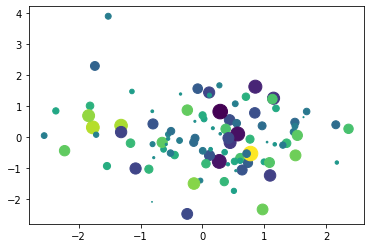
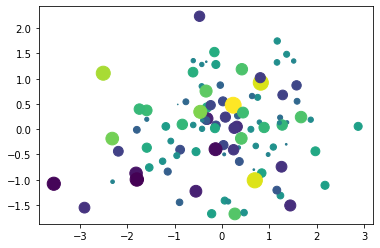
Update documentation

diff --git a/searchindex.js b/searchindex.js
@@ -1,1 +1,1 @@
-Search.setIndex({docnames:["Sample","content/background/machine_learning/machine_learning","content/background/machine_learning/scikit-learn","content/background/machine_learning/validation","content/background/mlops/code_versioning","content/background/mlops/mlops","content/background/mlops/model_tracking","content/background/scientific_python/matplotlib","content/background/scientific_python/numpy","content/background/scientific_python/pandas","content/background/scientific_python/python","content/background/scientific_python/sample","content/background/scientific_python/scientific_python","content/background/scientific_python/seaborn","content/condition/agmet","content/condition/eo_data_plot_components","content/condition/evaporative_stress_index","content/condition/examples","content/condition/ndvi","content/condition/precipitation","content/condition/soil_moisture","content/condition/temperature","content/installation","content/intro/introduction","content/yield/basic","content/yield/geocif","content/yield/introduction","geocif","geoprepare","intro","machine_learning_intro","markdown-notebooks","notebooks","overview"],envversion:{"sphinx.domains.c":2,"sphinx.domains.changeset":1,"sphinx.domains.citation":1,"sphinx.domains.cpp":4,"sphinx.domains.index":1,"sphinx.domains.javascript":2,"sphinx.domains.math":2,"sphinx.domains.python":3,"sphinx.domains.rst":2,"sphinx.domains.std":2,"sphinx.ext.intersphinx":1,"sphinxcontrib.bibtex":9,sphinx:56},filenames:["Sample.ipynb","content\\background\\machine_learning\\machine_learning.md","content\\background\\machine_learning\\scikit-learn.md","content\\background\\machine_learning\\validation.md","content\\background\\mlops\\code_versioning.md","content\\background\\mlops\\mlops.md","content\\background\\mlops\\model_tracking.md","content\\background\\scientific_python\\matplotlib.md","content\\background\\scientific_python\\numpy.md","content\\background\\scientific_python\\pandas.md","content\\background\\scientific_python\\python.md","content\\background\\scientific_python\\sample.md","content\\background\\scientific_python\\scientific_python.md","content\\background\\scientific_python\\seaborn.md","content\\condition\\agmet.md","content\\condition\\eo_data_plot_components.md","content\\condition\\evaporative_stress_index.md","content\\condition\\examples.md","content\\condition\\ndvi.md","content\\condition\\precipitation.md","content\\condition\\soil_moisture.md","content\\condition\\temperature.md","content\\installation.md","content\\intro\\introduction.md","content\\yield\\basic.md","content\\yield\\geocif.md","content\\yield\\introduction.md","geocif.md","geoprepare.md","intro.md","machine_learning_intro.md","markdown-notebooks.md","notebooks.ipynb","overview.md"],objects:{},objnames:{},objtypes:{},terms:{"0":[0,10,11,28,32],"00075659":0,"04937333":0,"05":22,"07700153":11,"0x1dbc66d5880":0,"0x251a00126a0":32,"0x26ac02a5880":11,"1":[0,10,11,32],"10":[0,10,11,14,18,20,21,32],"100":[0,10,11,32],"15":19,"19680801":32,"1982":28,"19953826":0,"2":[0,10,11,22,31],"2021":23,"2022":[22,28],"25":20,"26356542":0,"27109706":11,"27305358":11,"3":[0,10,11,22],"32138313":11,"35520955":0,"35712857":11,"4":[31,32],"43792341":11,"46961512":0,"47160749":11,"5":[14,18,19,20,21,28,32],"55478298":11,"61102559":11,"6117478":0,"62645711":0,"62787986":11,"63832084":0,"7":22,"8":22,"84634777":0,"default":[28,31],"do":32,"final":14,"function":23,"import":[0,10,11,28,32],"true":28,"while":21,A:28,As:[18,19,32],But:32,By:14,For:[14,18,19,20,21,22,23,32],If:[22,31],In:19,It:22,On:22,That:31,The:[14,18,19,20,21,22,31],There:[18,19,21,32],With:31,_ioncontext:32,ab:[0,10,11],abl:20,abort:21,about:[31,32],abov:19,accur:23,across:[14,19],action:23,activ:22,actor:23,ad:22,adapt:23,add_:32,addit:19,affect:21,again:18,agre:22,agricultur:23,al:23,align:32,all:[23,31],almost:23,along:18,alreadi:22,also:[21,31,32],altern:19,amount:[19,20],an:[19,22,23],anaconda3:22,anaconda:22,analysi:23,analyst:14,ani:[20,31],anticipatori:23,api:22,app:22,ar:[14,18,19,21,22,23,31],archiv:22,area:[14,19],arrai:[0,11,32],arrow:22,articl:14,ask:22,attach:22,avail:[20,23],averag:[14,18,19],ax:32,base:[14,22,31],bash:22,befor:[18,20],begin:[14,18,32],below:[14,19,22],best:23,better:14,between:19,black:[14,22],block:31,blue:14,book:[31,32],both:[19,21,22],box:22,br:22,bring:14,brown:14,buffer:23,built:31,button:22,c:[0,10,11,22],can:[14,18,19,20,21,22,23,31,32],cartopi:22,catalogu:22,catboost:22,caus:[19,20],cd:22,cdsapi:22,cdsapirc:22,celsiu:21,centimet:20,chart:19,check:32,chill:21,chirp:28,choic:22,client:22,climat:[14,22,23],clone:22,cluster:22,cm:32,cmap:32,code:[22,31],cold:32,collect:[0,11],color:[19,32],com:[22,28],combin:14,command:[22,31],compani:23,compar:[19,20,21],comparison:18,conda:22,condit:14,consist:14,content:31,context:14,contrib:22,convert:31,coolwarm:32,copi:22,correspond:14,cours:[18,19],creat:32,credenti:22,critic:23,crop:[18,19,20,21],cumul:19,current:[14,18,19,20,21],custom_lin:32,cycl:14,cycler:32,d:31,daac:22,dai:19,daili:[19,21],data:[0,10,11,18,19,20,21,22,32],dataset:[22,28],death:21,decis:23,decreas:18,deficit:19,defin:31,degre:21,demonstr:14,dep:28,depend:20,depth:[14,20],descript:14,design:23,detail:[14,22,31],develop:[14,18,19,20],die:18,differ:[14,19,22],dir_bas:28,direct:31,directori:22,discuss:14,displai:[22,31],document:[31,32],dollar:32,don:22,dot:[14,19],dramat:19,dure:[18,19,20],each:[14,22],earli:[18,19,20],earlier:22,earthdata:22,effect:[19,23],either:19,emb:32,emerg:19,end:[14,32],end_year:28,enough:19,ensur:23,enter:22,environment:14,eo:[18,19,20,21],escap:32,especi:23,estim:23,et:23,etc:32,eu:22,evapotranspir:21,even:19,event:19,everi:22,examin:14,exampl:[19,32],execut:31,expect:22,explain:23,extract:28,face:23,farm:19,farmer:23,fig:32,figsiz:32,file:[22,31],find:22,first:[18,19,21,22],five:[18,20],fix:32,flood:19,folder:22,follow:[22,31],food:23,forc:28,forecast:[19,23],forestci:22,forg:22,form:22,found:14,four:14,fraction_cpu:28,from:[18,19,20,21,22,23,32],frost:21,fulli:18,further:14,gdal:22,gener:22,geocif:28,geocod:22,geoglam:14,geopanda:22,geopi:22,geoprepar:28,germin:20,get:31,git:[22,28],github:[22,28],go:22,goe:19,gprp:28,grai:14,green:[14,19],greenup:14,grow:20,growth:[14,18,20,21],guid:32,harvest:[14,23],have:[19,22,31],held:20,help:[14,18,19,20],here:[22,32],high:21,higher:20,home:22,hot:32,how:[14,18,31],howev:20,html:32,http:[22,28],identifi:19,ii:32,iif:22,imag:32,impact:14,impend:23,includ:[23,31,32],increas:[18,21],indic:19,individu:18,inform:[14,18,19,20,21,23,31,32],init:31,injuri:21,input:28,insight:14,instruct:[22,31],insur:23,intend:22,interact:32,interpret:14,ion:32,jupyt:[31,32],jupyterlab:22,jupytext:31,keep:32,kei:[22,23],kernel:31,kramer:23,la_:32,laad:22,late:14,latest:22,leafi:18,learn:22,least:23,legend:32,let:31,librari:22,light:14,lightn:22,like:31,line2d:32,line:[14,22,31,32],linspac:32,linux:22,list:22,load:22,local:22,locat:22,log:[22,28],logfil:28,login:22,logspac:32,logzero:22,loss:[21,23],lot:32,low:21,lower:20,lw:32,machin:22,mai:14,main:14,major:19,make:32,maker:23,manag:22,mani:31,markdownfil:31,market:23,marketplac:23,math:32,matplotlib:[0,10,11,22,32],matur:18,maximum:[14,18,20,21],mbox:32,md:31,mean:[14,18,19,20,21,32],measur:[19,20,21],medium:32,menu:22,merf:22,mid:20,millimet:[19,20],minimum:[14,18,20,21],mitig:23,mm:20,model:28,modul:22,monitor:[14,18,19,20,21],more:[14,18,19,20,21,31,32],most:14,much:19,n:[22,32],name:22,nasa:14,nation:14,natur:23,necessari:22,need:31,netcdf4:22,next:22,non:22,np:[0,10,11,32],number:21,numpi:[0,10,11,32],octvi:22,octviconfig:22,off:[18,31],onc:22,optim:23,order:14,other:31,out:32,outcom:14,output:[10,31],over:[14,18,19],own:22,packag:[22,28],page:[22,31],palett:22,panda:[0,10,11],pangr:22,parallel_process:28,particular:14,past:22,path:31,path_to_config_fil:28,pathcollect:[0,11],payout:23,pd:[0,10,11],peak:18,pip3:22,pip:[22,28],place:[19,22],plant:[14,19,21],pleas:[14,18,19,20,21,22],plot:[0,11,18,19,20,21,32],plt:[0,10,11,32],polici:23,pollen:21,possibl:21,post:32,potenti:21,practic:23,pre:23,predict:18,prepar:28,presenc:31,prevent:19,previou:[14,18,20,21],print:31,privileg:23,product:[14,18],profil:22,progress:[14,18],promot:20,prompt:22,prop_cycl:32,properli:19,provid:[14,23],provis:23,purpl:14,pycountri:22,pygeoutil:22,pymodi:22,pyplot:[0,10,11,32],pyresampl:22,pyshp:22,python:28,qualiti:21,rainfal:19,randn:[0,10,11,32],random:[0,10,11,32],rang:[20,32],rasterio:22,rasterstat:22,rcparam:32,reach:18,real:14,recent:14,record:19,red:[14,19],reduc:21,reduct:[19,21],refer:14,regist:22,registr:22,reinstal:28,relat:28,remaind:14,replac:22,repo:22,repres:14,reproduc:32,request:22,rest:31,result:18,ritviksahajp:[22,28],root:20,run:[22,28,31],s:[0,10,11,14,19,20,21,31,32],safe:22,same:23,sampl:32,scale:14,scalebar:22,scatter:[0,10,11],scikit:22,seaborn:22,season:[14,18,19,20,21],second:[18,19,21],section:[18,19,20,21],secur:[22,23],see:[14,18,19,20,21,31,32],seed:[21,32],select:22,self:22,senesc:[14,18,20],servic:23,sever:14,sh:22,shortfal:23,should:31,show:[14,18,19,20,21,22,31],shown:22,sign:32,situat:23,sklearn:22,slow:21,so:31,solid:14,some:32,somewher:22,sow:19,sown:19,span:14,stage:[14,20],start:31,start_year:28,state:32,step:22,store:22,stori:14,strategi:23,stress:20,stunt:20,sub:14,subplot:32,support:31,sure:32,surplus:19,system:22,t:[22,32],tell:14,ten:20,term:22,termin:22,tex:32,text:31,textur:20,thermal:21,thi:[22,23,31,32],thing:31,those:18,thought:14,through:[14,21],time:[14,19,20,23],togeth:14,token:22,too:19,top:[20,22,31],tqdm:22,track:21,trade:23,transpar:23,treat:31,trigger:23,tsfresh:22,two:[18,19,21,31],type:22,typic:20,uid:22,umd:22,understand:[14,31],unix:22,up:[19,20],upgrad:[22,28],url:22,us:[14,18,19,20,21,22,31],user:22,usernam:22,userprofil:22,usual:[14,22],v2:22,vagari:23,valu:[14,18,19,20,21],valuabl:14,variabl:14,varieti:14,veget:14,veri:21,vertic:14,via:22,wai:21,want:32,warm:23,water:[20,21],websit:22,well:32,were:14,wget:22,what:14,when:[19,31],where:[14,22],which:[14,19,21,22,31],window:22,within:14,work:32,write:31,written:31,x86_64:22,xarrai:22,year:[14,18,19,20,21],yield:[18,19,21,23],you:[22,31,32],your:[22,31,32]},titles:["&lt;no title&gt;","Machine Learning","Scikit-Learn","Cross Validation","Code versioning","MLOPS","Model tracking","Matplotlib","Numpy","Pandas","Python","&lt;no title&gt;","Scientific Python","Seaborn","Agrometeorological Earth Observation Indicators","&lt;no title&gt;","&lt;no title&gt;","&lt;no title&gt;","Normalized Difference Vegetation Index (NDVI)","Precipitation","Soil Moisture (Surface):","Temperature","Install","Introduction","Basic Crop Yield Forecasting Model","GEOCIF","Introduction","GEOCIF","Downloading and Processing EO Data","&lt;no title&gt;","Introduction to Machine Learning","Notebooks with MyST Markdown","Content with notebooks","&lt;no title&gt;"],titleterms:{A:10,account:22,add:31,agera5:22,agmet:14,agrometeorolog:14,an:31,basic:[14,24],block:32,calendar:14,cell:31,code:[4,10,32],compon:14,configur:28,content:32,copernicu:22,creat:[22,31],crop:[14,24],cross:3,data:[14,28],differ:18,download:[22,28],earth:14,environ:22,eo:[14,28],exampl:31,explain:14,file:28,forecast:24,geocif:[25,27],index:18,indic:14,instal:[22,28],introduct:[23,26,30],learn:[1,2,30],machin:[1,30],markdown:[31,32],matplotlib:7,metadata:31,mlop:5,model:[6,24],modi:22,moistur:20,myst:[31,32],nasa:22,ndvi:[18,22],normal:18,notebook:[31,32],numpi:8,observ:14,output:32,panda:9,plot:[10,14],precipit:19,process:28,python:[10,12,22],quickli:31,scientif:12,scikit:2,seaborn:13,set:22,soil:20,some:10,surfac:20,temperatur:21,track:6,up:22,usag:28,valid:3,veget:18,version:4,yaml:31,yield:24}})
+Search.setIndex({docnames:["Sample","content/background/machine_learning/machine_learning","content/background/machine_learning/scikit-learn","content/background/machine_learning/validation","content/background/mlops/code_versioning","content/background/mlops/mlops","content/background/mlops/model_tracking","content/background/scientific_python/matplotlib","content/background/scientific_python/numpy","content/background/scientific_python/pandas","content/background/scientific_python/python","content/background/scientific_python/sample","content/background/scientific_python/scientific_python","content/background/scientific_python/seaborn","content/condition/agmet","content/condition/eo_data_plot_components","content/condition/evaporative_stress_index","content/condition/examples","content/condition/ndvi","content/condition/precipitation","content/condition/soil_moisture","content/condition/temperature","content/installation","content/intro/introduction","content/yield/basic","content/yield/geocif","content/yield/introduction","geocif","geoprepare","intro","machine_learning_intro","markdown-notebooks","notebooks","overview"],envversion:{"sphinx.domains.c":2,"sphinx.domains.changeset":1,"sphinx.domains.citation":1,"sphinx.domains.cpp":4,"sphinx.domains.index":1,"sphinx.domains.javascript":2,"sphinx.domains.math":2,"sphinx.domains.python":3,"sphinx.domains.rst":2,"sphinx.domains.std":2,"sphinx.ext.intersphinx":1,"sphinxcontrib.bibtex":9,sphinx:56},filenames:["Sample.ipynb","content\\background\\machine_learning\\machine_learning.md","content\\background\\machine_learning\\scikit-learn.md","content\\background\\machine_learning\\validation.md","content\\background\\mlops\\code_versioning.md","content\\background\\mlops\\mlops.md","content\\background\\mlops\\model_tracking.md","content\\background\\scientific_python\\matplotlib.md","content\\background\\scientific_python\\numpy.md","content\\background\\scientific_python\\pandas.md","content\\background\\scientific_python\\python.md","content\\background\\scientific_python\\sample.md","content\\background\\scientific_python\\scientific_python.md","content\\background\\scientific_python\\seaborn.md","content\\condition\\agmet.md","content\\condition\\eo_data_plot_components.md","content\\condition\\evaporative_stress_index.md","content\\condition\\examples.md","content\\condition\\ndvi.md","content\\condition\\precipitation.md","content\\condition\\soil_moisture.md","content\\condition\\temperature.md","content\\installation.md","content\\intro\\introduction.md","content\\yield\\basic.md","content\\yield\\geocif.md","content\\yield\\introduction.md","geocif.md","geoprepare.md","intro.md","machine_learning_intro.md","markdown-notebooks.md","notebooks.ipynb","overview.md"],objects:{},objnames:{},objtypes:{},terms:{"0":[0,10,11,28,32],"02058579":11,"03111581":11,"04644897":11,"05":22,"0x186f76b7880":11,"0x22b83bf5880":0,"0x2370d036b20":32,"1":[0,10,11,32],"10":[0,10,11,14,18,20,21,32],"100":[0,10,11,32],"10659646":0,"12796681":11,"15":19,"19680801":32,"1982":28,"2":[0,10,11,22,31],"2021":23,"2022":[22,28],"22653936":11,"25":20,"25261167":11,"3":[0,10,11,22],"31551465":11,"3630867":0,"4":[31,32],"42781268":11,"4466534":0,"5":[14,18,19,20,21,28,32],"57341836":11,"58067159":0,"60513506":0,"7":22,"70725473":0,"7109635":0,"7525021":11,"8":22,"80366425":0,"86714447":0,"95012684":0,"default":[28,31],"do":32,"final":14,"function":23,"import":[0,10,11,28,32],"true":28,"while":21,A:28,As:[18,19,32],But:32,By:14,For:[14,18,19,20,21,22,23,32],If:[22,31],In:19,It:22,On:22,That:31,The:[14,18,19,20,21,22,31],There:[18,19,21,32],With:31,_ioncontext:32,ab:[0,10,11],abl:20,abort:21,about:[31,32],abov:19,accur:23,across:[14,19],action:23,activ:22,actor:23,ad:22,adapt:23,add_:32,addit:19,affect:21,again:18,agre:22,agricultur:23,al:23,align:32,all:[23,31],almost:23,along:18,alreadi:22,also:[21,31,32],altern:19,amount:[19,20],an:[19,22,23],anaconda3:22,anaconda:22,analysi:23,analyst:14,ani:[20,31],anticipatori:23,api:22,app:22,ar:[14,18,19,21,22,23,31],archiv:22,area:[14,19],arrai:[0,11,32],arrow:22,articl:14,ask:22,attach:22,avail:[20,23],averag:[14,18,19],ax:32,base:[14,22,31],bash:22,befor:[18,20],begin:[14,18,32],below:[14,19,22],best:23,better:14,between:19,black:[14,22],block:31,blue:14,book:[31,32],both:[19,21,22],box:22,br:22,bring:14,brown:14,buffer:23,built:31,button:22,c:[0,10,11,22],can:[14,18,19,20,21,22,23,31,32],cartopi:22,catalogu:22,catboost:22,caus:[19,20],cd:22,cdsapi:22,cdsapirc:22,celsiu:21,centimet:20,chart:19,check:32,chill:21,chirp:28,choic:22,client:22,climat:[14,22,23],clone:22,cluster:22,cm:32,cmap:32,code:[22,31],cold:32,collect:[0,11],color:[19,32],com:[22,28],combin:14,command:[22,31],compani:23,compar:[19,20,21],comparison:18,conda:22,condit:14,consist:14,content:31,context:14,contrib:22,convert:31,coolwarm:32,copi:22,correspond:14,cours:[18,19],creat:32,credenti:22,critic:23,crop:[18,19,20,21],cumul:19,current:[14,18,19,20,21],custom_lin:32,cycl:14,cycler:32,d:31,daac:22,dai:19,daili:[19,21],data:[0,10,11,18,19,20,21,22,32],dataset:[22,28],death:21,decis:23,decreas:18,deficit:19,defin:31,degre:21,demonstr:14,dep:28,depend:20,depth:[14,20],descript:14,design:23,detail:[14,22,31],develop:[14,18,19,20],die:18,differ:[14,19,22],dir_bas:28,direct:31,directori:22,discuss:14,displai:[22,31],document:[31,32],dollar:32,don:22,dot:[14,19],dramat:19,dure:[18,19,20],each:[14,22],earli:[18,19,20],earlier:22,earthdata:22,effect:[19,23],either:19,emb:32,emerg:19,end:[14,32],end_year:28,enough:19,ensur:23,enter:22,environment:14,eo:[18,19,20,21],escap:32,especi:23,estim:23,et:23,etc:32,eu:22,evapotranspir:21,even:19,event:19,everi:22,examin:14,exampl:[19,32],execut:31,expect:22,explain:23,extract:28,face:23,farm:19,farmer:23,fig:32,figsiz:32,file:[22,31],find:22,first:[18,19,21,22],five:[18,20],fix:32,flood:19,folder:22,follow:[22,31],food:23,forc:28,forecast:[19,23],forestci:22,forg:22,form:22,found:14,four:14,fraction_cpu:28,from:[18,19,20,21,22,23,32],frost:21,fulli:18,further:14,gdal:22,gener:22,geocif:28,geocod:22,geoglam:14,geopanda:22,geopi:22,geoprepar:28,germin:20,get:31,git:[22,28],github:[22,28],go:22,goe:19,gprp:28,grai:14,green:[14,19],greenup:14,grow:20,growth:[14,18,20,21],guid:32,harvest:[14,23],have:[19,22,31],held:20,help:[14,18,19,20],here:[22,32],high:21,higher:20,home:22,hot:32,how:[14,18,31],howev:20,html:32,http:[22,28],identifi:19,ii:32,iif:22,imag:32,impact:14,impend:23,includ:[23,31,32],increas:[18,21],indic:19,individu:18,inform:[14,18,19,20,21,23,31,32],init:31,injuri:21,input:28,insight:14,instruct:[22,31],insur:23,intend:22,interact:32,interpret:14,ion:32,jupyt:[31,32],jupyterlab:22,jupytext:31,keep:32,kei:[22,23],kernel:31,kramer:23,la_:32,laad:22,late:14,latest:22,leafi:18,learn:22,least:23,legend:32,let:31,librari:22,light:14,lightn:22,like:31,line2d:32,line:[14,22,31,32],linspac:32,linux:22,list:22,load:22,local:22,locat:22,log:[22,28],logfil:28,login:22,logspac:32,logzero:22,loss:[21,23],lot:32,low:21,lower:20,lw:32,machin:22,mai:14,main:14,major:19,make:32,maker:23,manag:22,mani:31,markdownfil:31,market:23,marketplac:23,math:32,matplotlib:[0,10,11,22,32],matur:18,maximum:[14,18,20,21],mbox:32,md:31,mean:[14,18,19,20,21,32],measur:[19,20,21],medium:32,menu:22,merf:22,mid:20,millimet:[19,20],minimum:[14,18,20,21],mitig:23,mm:20,model:28,modul:22,monitor:[14,18,19,20,21],more:[14,18,19,20,21,31,32],most:14,much:19,n:[22,32],name:22,nasa:14,nation:14,natur:23,necessari:22,need:31,netcdf4:22,next:22,non:22,np:[0,10,11,32],number:21,numpi:[0,10,11,32],octvi:22,octviconfig:22,off:[18,31],onc:22,optim:23,order:14,other:31,out:32,outcom:14,output:[10,31],over:[14,18,19],own:22,packag:[22,28],page:[22,31],palett:22,panda:[0,10,11],pangr:22,parallel_process:28,particular:14,past:22,path:31,path_to_config_fil:28,pathcollect:[0,11],payout:23,pd:[0,10,11],peak:18,pip3:22,pip:[22,28],place:[19,22],plant:[14,19,21],pleas:[14,18,19,20,21,22],plot:[0,11,18,19,20,21,32],plt:[0,10,11,32],polici:23,pollen:21,possibl:21,post:32,potenti:21,practic:23,pre:23,predict:18,prepar:28,presenc:31,prevent:19,previou:[14,18,20,21],print:31,privileg:23,product:[14,18],profil:22,progress:[14,18],promot:20,prompt:22,prop_cycl:32,properli:19,provid:[14,23],provis:23,purpl:14,pycountri:22,pygeoutil:22,pymodi:22,pyplot:[0,10,11,32],pyresampl:22,pyshp:22,python:28,qualiti:21,rainfal:19,randn:[0,10,11,32],random:[0,10,11,32],rang:[20,32],rasterio:22,rasterstat:22,rcparam:32,reach:18,real:14,recent:14,record:19,red:[14,19],reduc:21,reduct:[19,21],refer:14,regist:22,registr:22,reinstal:28,relat:28,remaind:14,replac:22,repo:22,repres:14,reproduc:32,request:22,rest:31,result:18,ritviksahajp:[22,28],root:20,run:[22,28,31],s:[0,10,11,14,19,20,21,31,32],safe:22,same:23,sampl:32,scale:14,scalebar:22,scatter:[0,10,11],scikit:22,seaborn:22,season:[14,18,19,20,21],second:[18,19,21],section:[18,19,20,21],secur:[22,23],see:[14,18,19,20,21,31,32],seed:[21,32],select:22,self:22,senesc:[14,18,20],servic:23,sever:14,sh:22,shortfal:23,should:31,show:[14,18,19,20,21,22,31],shown:22,sign:32,situat:23,sklearn:22,slow:21,so:31,solid:14,some:32,somewher:22,sow:19,sown:19,span:14,stage:[14,20],start:31,start_year:28,state:32,step:22,store:22,stori:14,strategi:23,stress:20,stunt:20,sub:14,subplot:32,support:31,sure:32,surplus:19,system:22,t:[22,32],tell:14,ten:20,term:22,termin:22,tex:32,text:31,textur:20,thermal:21,thi:[22,23,31,32],thing:31,those:18,thought:14,through:[14,21],time:[14,19,20,23],togeth:14,token:22,too:19,top:[20,22,31],tqdm:22,track:21,trade:23,transpar:23,treat:31,trigger:23,tsfresh:22,two:[18,19,21,31],type:22,typic:20,uid:22,umd:22,understand:[14,31],unix:22,up:[19,20],upgrad:[22,28],url:22,us:[14,18,19,20,21,22,31],user:22,usernam:22,userprofil:22,usual:[14,22],v2:22,vagari:23,valu:[14,18,19,20,21],valuabl:14,variabl:14,varieti:14,veget:14,veri:21,vertic:14,via:22,wai:21,want:32,warm:23,water:[20,21],websit:22,well:32,were:14,wget:22,what:14,when:[19,31],where:[14,22],which:[14,19,21,22,31],window:22,within:14,work:32,write:31,written:31,x86_64:22,xarrai:22,year:[14,18,19,20,21],yield:[18,19,21,23],you:[22,31,32],your:[22,31,32]},titles:["&lt;no title&gt;","Machine Learning","Scikit-Learn","Cross Validation","Code versioning","MLOPS","Model tracking","Matplotlib","Numpy","Pandas","Python","&lt;no title&gt;","Scientific Python","Seaborn","Agrometeorological Earth Observation Indicators","&lt;no title&gt;","&lt;no title&gt;","&lt;no title&gt;","Normalized Difference Vegetation Index (NDVI)","Precipitation","Soil Moisture (Surface):","Temperature","Install","Introduction","Basic Crop Yield Forecasting Model","GEOCIF","Introduction","GEOCIF","Downloading and Processing EO Data","&lt;no title&gt;","Introduction to Machine Learning","Notebooks with MyST Markdown","Content with notebooks","&lt;no title&gt;"],titleterms:{A:10,account:22,add:31,agera5:22,agmet:14,agrometeorolog:14,an:31,basic:[14,24],block:32,calendar:14,cell:31,code:[4,10,32],compon:14,configur:28,content:32,copernicu:22,creat:[22,31],crop:[14,24],cross:3,data:[14,28],differ:18,download:[22,28],earth:14,environ:22,eo:[14,28],exampl:31,explain:14,file:28,forecast:24,geocif:[25,27],index:18,indic:14,instal:[22,28],introduct:[23,26,30],learn:[1,2,30],machin:[1,30],markdown:[31,32],matplotlib:7,metadata:31,mlop:5,model:[6,24],modi:22,moistur:20,myst:[31,32],nasa:22,ndvi:[18,22],normal:18,notebook:[31,32],numpi:8,observ:14,output:32,panda:9,plot:[10,14],precipit:19,process:28,python:[10,12,22],quickli:31,scientif:12,scikit:2,seaborn:13,set:22,soil:20,some:10,surfac:20,temperatur:21,track:6,up:22,usag:28,valid:3,veget:18,version:4,yaml:31,yield:24}})

diff --git a/content/background/scientific_python/sample.html b/content/background/scientific_python/sample.html
@@ -534,8 +534,8 @@ title="Print to PDF"
 </div>
 </div>
 <div class="cell_output docutils container">
-<div class="output text_plain highlight-myst-ansi notranslate"><div class="highlight"><pre><span></span>array([ 0.43792341,  0.32138313,  1.47160749,  0.27109706, -0.07700153,
-        2.35712857,  0.61102559, -0.62787986,  0.27305358, -2.55478298])
+<div class="output text_plain highlight-myst-ansi notranslate"><div class="highlight"><pre><span></span>array([-0.42781268,  1.22653936, -0.12796681,  0.7525021 ,  1.57341836,
+        0.02058579, -1.25261167, -2.31551465,  0.03111581,  0.04644897])
 </pre></div>
 </div>
 </div>
@@ -555,7 +555,7 @@ title="Print to PDF"
 </div>
 </div>
 <div class="cell_output docutils container">
-<div class="output text_plain highlight-myst-ansi notranslate"><div class="highlight"><pre><span></span>&lt;matplotlib.collections.PathCollection at 0x26ac02a5880&gt;
+<div class="output text_plain highlight-myst-ansi notranslate"><div class="highlight"><pre><span></span>&lt;matplotlib.collections.PathCollection at 0x186f76b7880&gt;
 </pre></div>
 </div>
 <img alt="../../../_images/sample_2_1.png" src="../../../_images/sample_2_1.png" />

diff --git a/Sample.html b/Sample.html
@@ -515,8 +515,8 @@ title="Print to PDF"
 </div>
 </div>
 <div class="cell_output docutils container">
-<div class="output text_plain highlight-myst-ansi notranslate"><div class="highlight"><pre><span></span>array([-2.04937333,  0.26356542,  0.84634777, -1.19953826, -0.62645711,
-        0.63832084, -1.46961512,  1.00075659,  0.6117478 , -0.35520955])
+<div class="output text_plain highlight-myst-ansi notranslate"><div class="highlight"><pre><span></span>array([ 1.86714447,  0.7109635 , -1.10659646,  0.4466534 , -0.3630867 ,
+        1.58067159,  0.60513506,  1.95012684,  1.80366425,  0.70725473])
 </pre></div>
 </div>
 </div>
@@ -536,7 +536,7 @@ title="Print to PDF"
 </div>
 </div>
 <div class="cell_output docutils container">
-<div class="output text_plain highlight-myst-ansi notranslate"><div class="highlight"><pre><span></span>&lt;matplotlib.collections.PathCollection at 0x1dbc66d5880&gt;
+<div class="output text_plain highlight-myst-ansi notranslate"><div class="highlight"><pre><span></span>&lt;matplotlib.collections.PathCollection at 0x22b83bf5880&gt;
 </pre></div>
 </div>
 <img alt="_images/Sample_2_1.png" src="_images/Sample_2_1.png" />

diff --git a/notebooks.html b/notebooks.html
@@ -576,7 +576,7 @@ For example, here’s some sample Matplotlib code:</p>
 </div>
 </div>
 <div class="cell_output docutils container">
-<div class="output text_plain highlight-myst-ansi notranslate"><div class="highlight"><pre><span></span>&lt;matplotlib.pyplot._IonContext at 0x251a00126a0&gt;
+<div class="output text_plain highlight-myst-ansi notranslate"><div class="highlight"><pre><span></span>&lt;matplotlib.pyplot._IonContext at 0x2370d036b20&gt;
 </pre></div>
 </div>
 </div>
